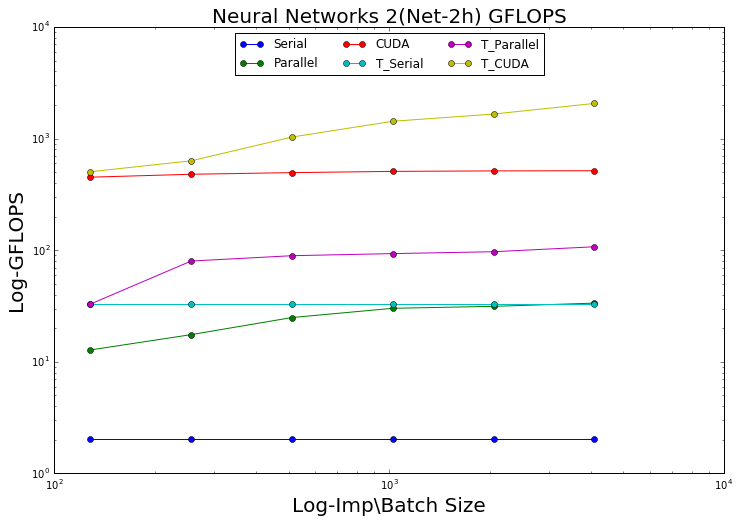
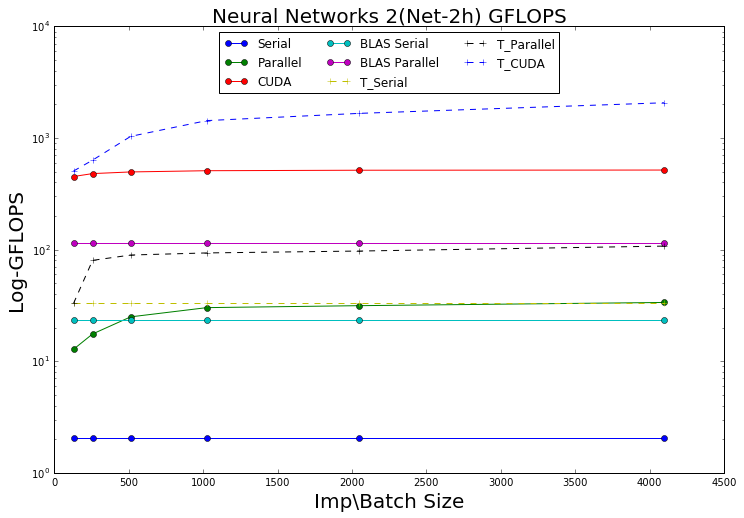
update results in report, experiments,results in slide

diff --git a/report/tex/results.tex b/report/tex/results.tex
@@ -1,34 +1,59 @@
 \section{Results and Analysis}
 \label{Results}
 
-Provide experiment results: serial \\
-Compare serial vs pthreads vs cuda vs theano. \\
-Provide graphs for speedup with increasing problem size \\
-Analyze speedup with number of threads/cores used \\
-Analyze the level of parallelization obtained \\
-Analyze performance bottlenecks \\
-Do overall analysis and compare obtained results with your expectations\\
+%Provide experiment results: serial \\
+%Compare serial vs pthreads vs cuda vs theano. \\
+%Provide graphs for speedup with increasing problem size \\
+%Analyze speedup with number of threads/cores used \\
+%Analyze the level of parallelization obtained \\
+%Analyze performance bottlenecks \\
+%Do overall analysis and compare obtained results with your expectations\\
 
-As described in previous sections, we compare our implementations with state of the art deep learning library, Theano, in three different parallelizations (Serial/Pthreads/Cuda-C). All experiments are done under the same network structures with MNIST datasets.
+As described in previous sections, we compare our implementations with state of the art deep learning library, Theano, in three different parallelizations (Serial/Pthreads/Cuda-C). All experiments are done under the same network structures with MNIST datasets and the number of threads is fixed as 32.
 
 \begin{figure}[ht]
 %\vskip 0.2in
 \begin{center}
 \centerline{\includegraphics[width=\columnwidth]{../../slide/nn1_time.png}}
-\caption{Computation time for Net-1h}
+\caption{Learning time for Net-1h}
 \label{fig:nn1_time}
 \end{center}
 \vskip -0.4in
 \end{figure}
 
-Figure \ref{fig:nn1_time} clearly shows distinct characteristics between serial and parallel computation as well as CPU and GPU based computation. First, the serial learning time (Blue curve, Light blue curve) is almost constant on the varying mini batch size. It is because more batch size means linearly increased computation time in the serial domain. On the other hand, the parallel learning time (Green curve) shows exponentially decreased training time due to multithreads. This behavior is shown commonly in parallel computation based on Theano (T-Parallel). In case of GPU based computation, the overall performance is significantly improved because GPU usually have much more cores than CPU. As a result, \textbf{Why cuda doesn't show exponentially decreased pattern?}.\\
-The faster computation by the parallelization is able to be captured by seeing GFLOPS(Giga FLoating point OPerations per Second). Figure \ref{fig:nn1_gflops} shows that parallelization provide much larger number of floating point operations than serial, thus, single core computation.   
+Figure \ref{fig:nn1_time} clearly shows distinct characteristics between serial and parallel computation as well as CPU and GPU based computation. First, the training time for 1 epoch of the serial implementation (Blue curve and Light blue curve) is almost constant over the varying mini batch size. It is obvious result because regardless of the size of each mini batch training data is accessed sequentially. On the other hand, the parallel learning time (Green curve) shows decreased training time due to multithreads distribution as we expected. One thing we should note is that the parallelism is enhanced when larger size of batch is used because the number of allocations of data into each thread is reduced. When smaller batch size is used, we need to assign each data into the corresponding thread more frequently and it causes more overheads. Moreover, as the last step, we need to combine all the results from every threads (which is called the reduction process) and the number of the reduction processes is also increased for smaller batch size. This behavior is shown commonly in the parallel computation based on Theano (T-Parallel).\\
+In case of GPU based computation, the overall performance is significantly improved because GPU usually have much more cores which are specialized for repetitive operations such as matrix multiplications than CPU. As a result, GPU provides much faster learning time than that of CPU in general due to less number of allocation/reduction processes.\\
+The faster computation by the parallelization is able to be captured by calculating GFLOPS. Figure \ref{fig:nn1_gflops} shows that parallelization provide much larger number of floating point operations than serial, thus, single thread computation.
 \begin{figure}[ht]
 %\vskip 0.2in
 \begin{center}
 \centerline{\includegraphics[width=\columnwidth]{../../slide/nn1_gflops.png}}
 \caption{GFLOPS for Net-1h}
 \label{fig:nn1_gflops}
+\end{center}
+\vskip -0.4in
+\end{figure}
+
+\textbf{BLAS} As Basic Linear Algebra Subprograms, BLAS has been crucial workhorse in heavy numerical computing. By replacing the self-built matrix-vector product libraries with BLAS functions, we could obtain hugely improved results (even faster than Theano). Note that the execution time of BLAS doesn't depend on the number of threads because it parallelizes each Matrix-vector product and hence each thread executes different parts of the same example. The serial implementation is still a bit slower than Theano but is faster than our previous implementation by about 10 times. This way shows that the optimized parallelism gives speed-up over Naive serial implementation. \\
+
+\textbf{Bottleneck} In ideal case, by increasing the size of the batch, the number of overheads (allocation/reduction) is exponentially decreased. However, our experiment results show that there are some performance bottlenecks. In our implementation, shared memory bank conflicts which reduce the parallelism when threads access the shared memory appear when the number of batch increases. When the dimensions (i.e.number of neurons between layers) of the neural network is not perfect multiple of 32 then some threads do not participate in the computation so they are doing no work but still have to wait on the barrier. As a result, it causes degraded parallelism.\\
+
+Overall, we demonstrate that the parallel computation is significantly faster than the serial computation by utilizing multithreads based on the mini batch in the multicore machine. Moreover, by dividing training datasets into larger mini batches, we are able to better performance than that of smaller batch size due to reduced overheads. Similarly, the training time and GFLOPS are improved in the second networks (Net-2h) (See Figure \ref{fig:nn2_time},\ref{fig:nn2_gflops}). 
+\begin{figure}[ht]
+%\vskip 0.2in
+\begin{center}
+\centerline{\includegraphics[width=\columnwidth]{../../slide/nn2_time.png}}
+\caption{Learning time for Net-2h}
+\label{fig:nn2_time}
+\end{center}
+\vskip -0.4in
+\end{figure}
+\begin{figure}[ht]
+\vskip 0.2in
+\begin{center}
+\centerline{\includegraphics[width=\columnwidth]{../../slide/nn2_gflops.png}}
+\caption{GFLOPS for Net-2h}
+\label{fig:nn2_gflops}
 \end{center}
 \vskip -0.4in
 \end{figure}

diff --git a/slide/result.tex b/slide/result.tex
@@ -55,7 +55,23 @@
  
  \begin{frame}{Analysis}
  	\begin{itemize}
- 	\item {Discussion}
+ 	\item {Naive implementation}
+ 	\begin{itemize}
+ 	\item {Parallel computing provides faster training time than serial implementation.}
+ 	\item {By increasing the mini batch size, we can much faster training time.}
+ 	\end{itemize}
+ 	\item {\textbf{BLAS}}
+ 	\begin{itemize}
+ 	\item {Significantly improved results (even faster than Theano) with BLAS.}
+ 	\item {It is able to parallelize each Matrix-vector product.}
+ 	\item { This way shows that the optimized parallelism gives speed-up over Naive serial implementation.}
+	\end{itemize}
+	\item {\textbf{Bottlenecks}}
+	\begin{itemize}
+	\item {Shared memory bank conflicts reduce the parallelism.}
+	\item {When the number of neurons between layers is not perfect multiple of 32 then some threads do not participate in the computation but just wait.}
+	\item {As a result, it causes degraded parallelism.}
+	\end{itemize}
  	\end{itemize}
  
  \end{frame}

diff --git a/slide/experiment.tex b/slide/experiment.tex
@@ -48,21 +48,3 @@
   \end{itemize}
 \end{frame}
 
-
-\begin{frame}{Parallel experiments}
-	\begin{itemize}
-	\item { \textbf{PThreads} }
-		\begin{itemize}
-		\item {About PThreads setting}
-		\end{itemize}
-	\item { \textbf{CUDA} }
-		\begin{itemize}
-		\item {About CUDA setting}
-		\end{itemize}
-	\item { \textbf{theano} }
-		\begin{itemize}
-		\item {About theano}
-		\end{itemize}
-	\end{itemize}
-
-\end{frame}
